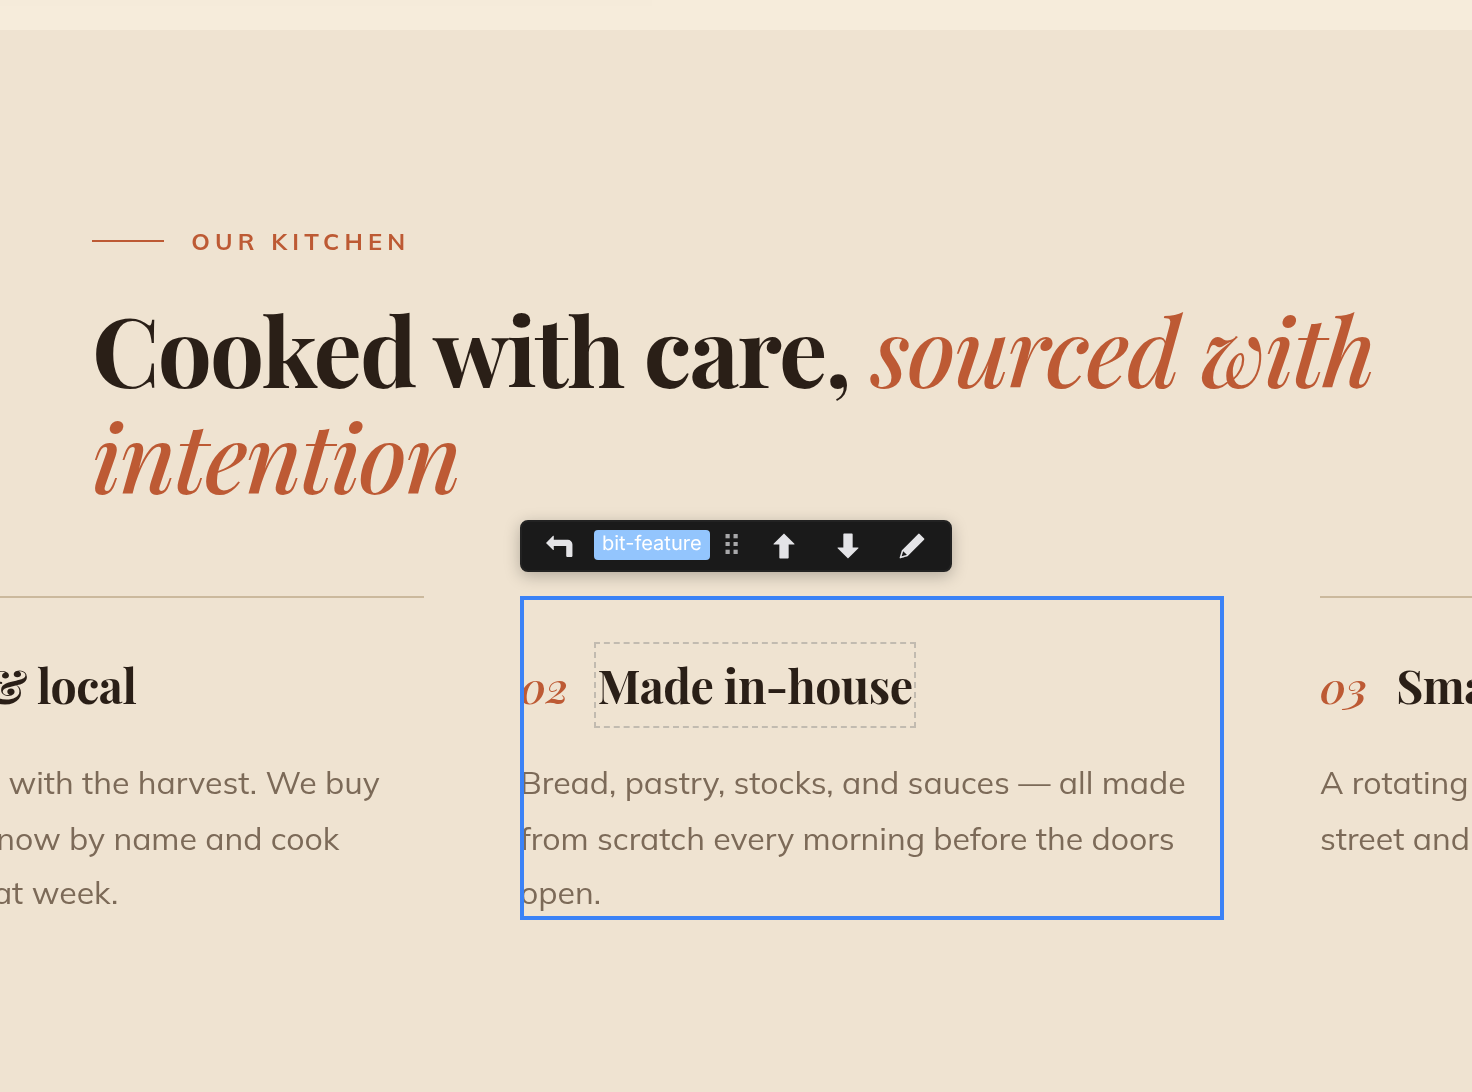
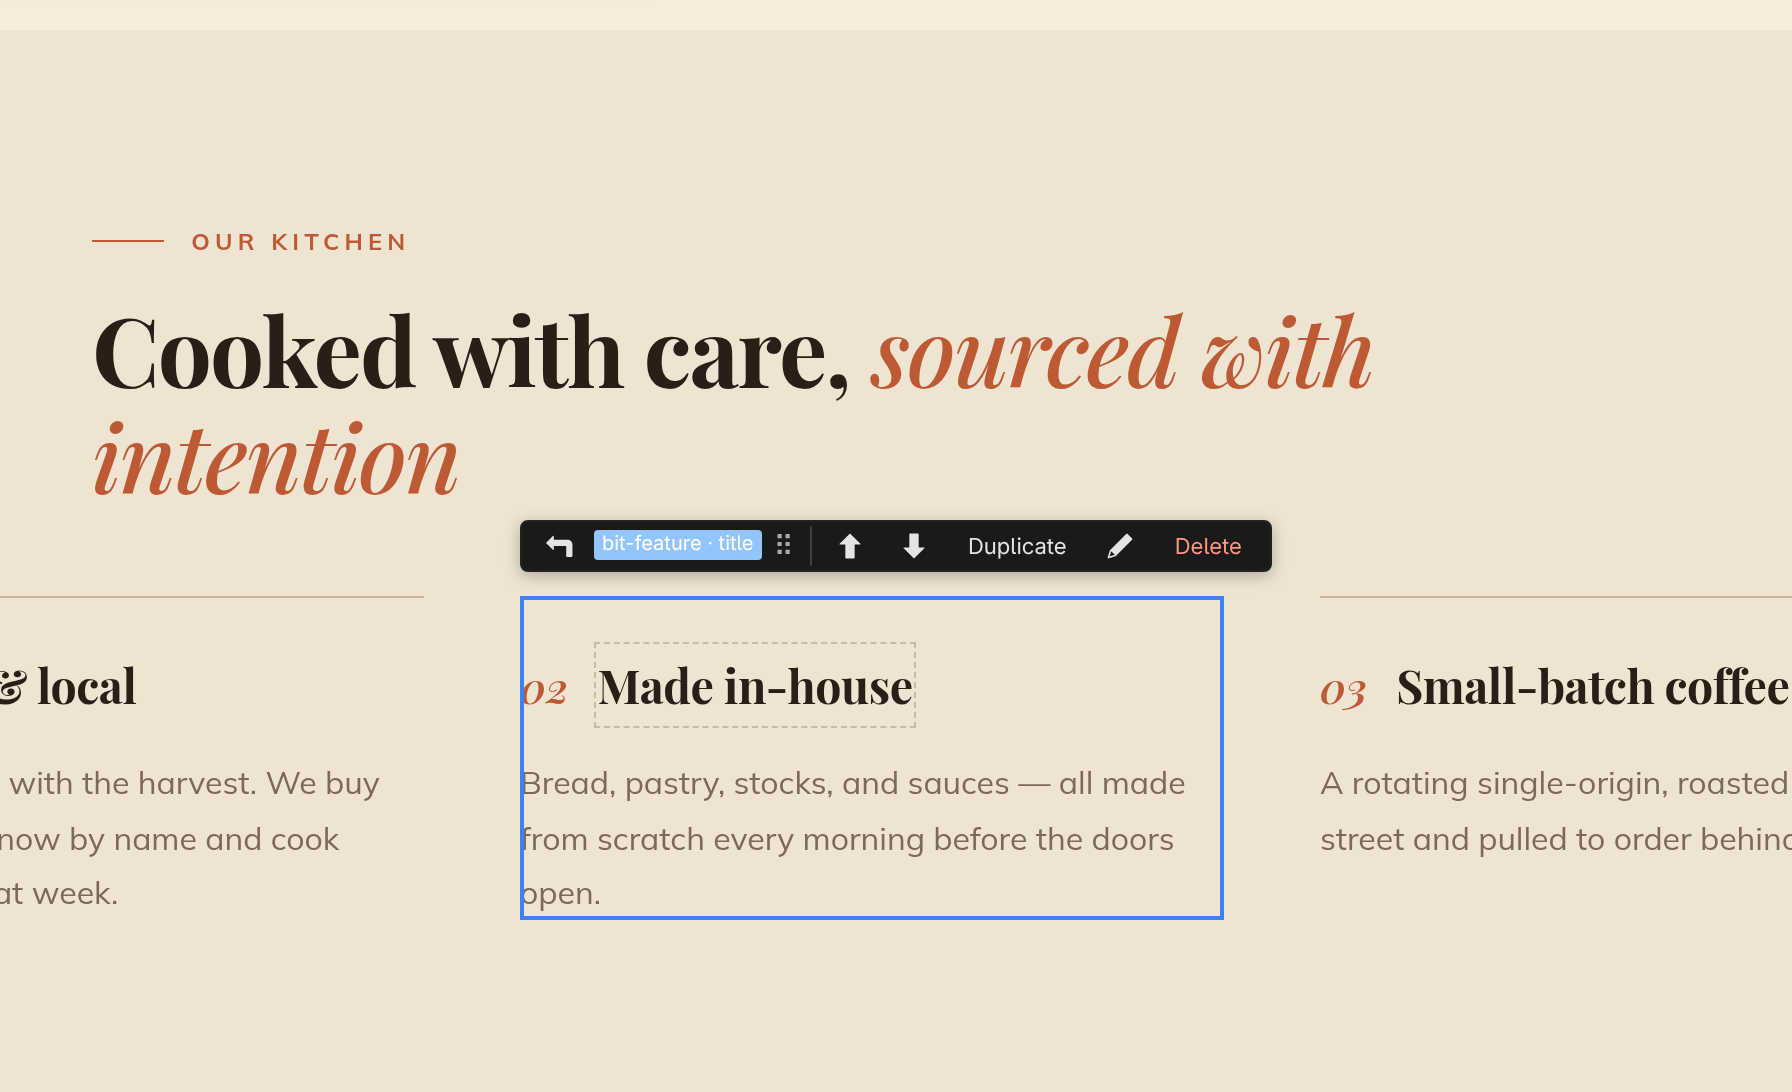
docs: regenerate P2 screenshots, fix the layers page, harden the Outline shim
The Outline rows and block action bar changed shape in P2, so five images are
regenerated. docs/studio/design/layers.md described five always-visible row
buttons including an ✕ that no longer exists; it now describes the four moves,
the ⋮ overflow, disabled-not-hidden actions, and the tree's keyboard model.

The automation shim for layers.contextMenu addressed a row by its label text.
Outline labels are now derived from the node ($title → #id → own text → .class →
landmark → first text → "n items"), so they are deliberately not stable strings
— "article" started rendering as "Article" and broke blog-repeat-dialog. The
shim now matches the label OR the tag badge, case-insensitively; the badge is
the durable half of the pair.

Screenshot failures drop from 3 to 2: W4's tab work fixed tab-strip-shot, which
was already failing on main. slash-menu-shot and repeat-dialog remain
pre-existing and untouched.

diff --git a/packages/studio/src/services/automation.ts b/packages/studio/src/services/automation.ts
@@ -158,6 +158,22 @@ const namedRow = (rowClass: string, nameClass: string, name: string) =>
   `xpath///div[contains(@class,"${rowClass}")][.//span[contains(@class,"${nameClass}")]` +
   `[normalize-space()="${name}"]]`;
 
+/**
+ * An Outline row, matched by its label OR its tag badge, case-insensitively.
+ *
+ * Outline labels are derived from the node, so they are deliberately not stable strings; the tag
+ * badge is. Accepting either keeps a shot working when a row's label changes shape.
+ */
+const layerRow = (name: string) => {
+  const lower = name.toLowerCase();
+  const fold = `translate(normalize-space(),"ABCDEFGHIJKLMNOPQRSTUVWXYZ","abcdefghijklmnopqrstuvwxyz")`;
+  return (
+    `xpath///div[contains(@class,"layer-row")]` +
+    `[.//span[contains(@class,"layer-label")][${fold}="${lower}"]` +
+    ` or .//span[contains(@class,"layer-tag")][${fold}="${lower}"]]`
+  );
+};
+
 /** An `sp-action-button` inside `container`, matched by its label. */
 const buttonIn = (container: string, label: string) =>
   `xpath///div[contains(@class,"${container}")]//sp-action-button[normalize-space()="${label}"]`;
@@ -247,10 +263,11 @@ export const AUTOMATION_COMMANDS: Record<string, AutomationCommand> = {
 
   // ── Layers ──
   "layers.contextMenu": {
-    press: (args) => ({
-      button: "right",
-      selector: namedRow("layer-row", "layer-label", str(args, "label")),
-    }),
+    // Matches the row's TAG BADGE as well as its label, and case-insensitively. Outline labels are
+    // Derived from the node ($title → #id → own text → .class → landmark → first text → "n items"),
+    // So they are deliberately not stable strings — a shot that names "article" must keep working
+    // When the row starts rendering "Article". The badge is the durable half of the pair.
+    press: (args) => ({ button: "right", selector: layerRow(str(args, "label")) }),
   },
 
   // ── Media ──

diff --git a/docs/studio/design/layers.md b/docs/studio/design/layers.md
@@ -41,12 +41,18 @@ The name is a display title only — Studio stores it as a `$title` key on the e
 
 ## Rearrange the page
 
-Click a row to select it and its actions appear on the right:
+Select a row — or just hover it — and its actions appear on the right:
 
 - **Move up** / **Move down** arrows swap the element with its neighbors.
-- The **right arrow** moves the element inside the sibling above it (shown when that sibling can hold children).
+- The **right arrow** moves the element inside the sibling above it.
 - The **left arrow** moves the element out of its parent, to sit just after it.
-- **✕** deletes the element and everything inside it.
+- **⋮** holds **Duplicate** and **Delete**.
+
+An action that cannot apply — moving the first child up, say — is shown greyed rather than hidden, with a tooltip saying what it needs. The buttons never move under your cursor.
+
+:::doc-tip
+The tree is keyboard-navigable. :kbd[↑] and :kbd[↓] walk the rows, :kbd[→] and :kbd[←] expand and collapse, and :kbd[Home] / :kbd[End] jump to the ends.
+:::
 
 For bigger moves, drag the **⠿** handle — which appears on any row you hover — or the row itself. An indicator shows where the element will land: above or below the row under the cursor, or inside it as a child. You can also drag a row straight onto the canvas and drop it at the spot you see. Press :kbd[Esc] mid-drag to cancel with nothing changed. Dropping an element into itself or its own descendants is blocked.
 
